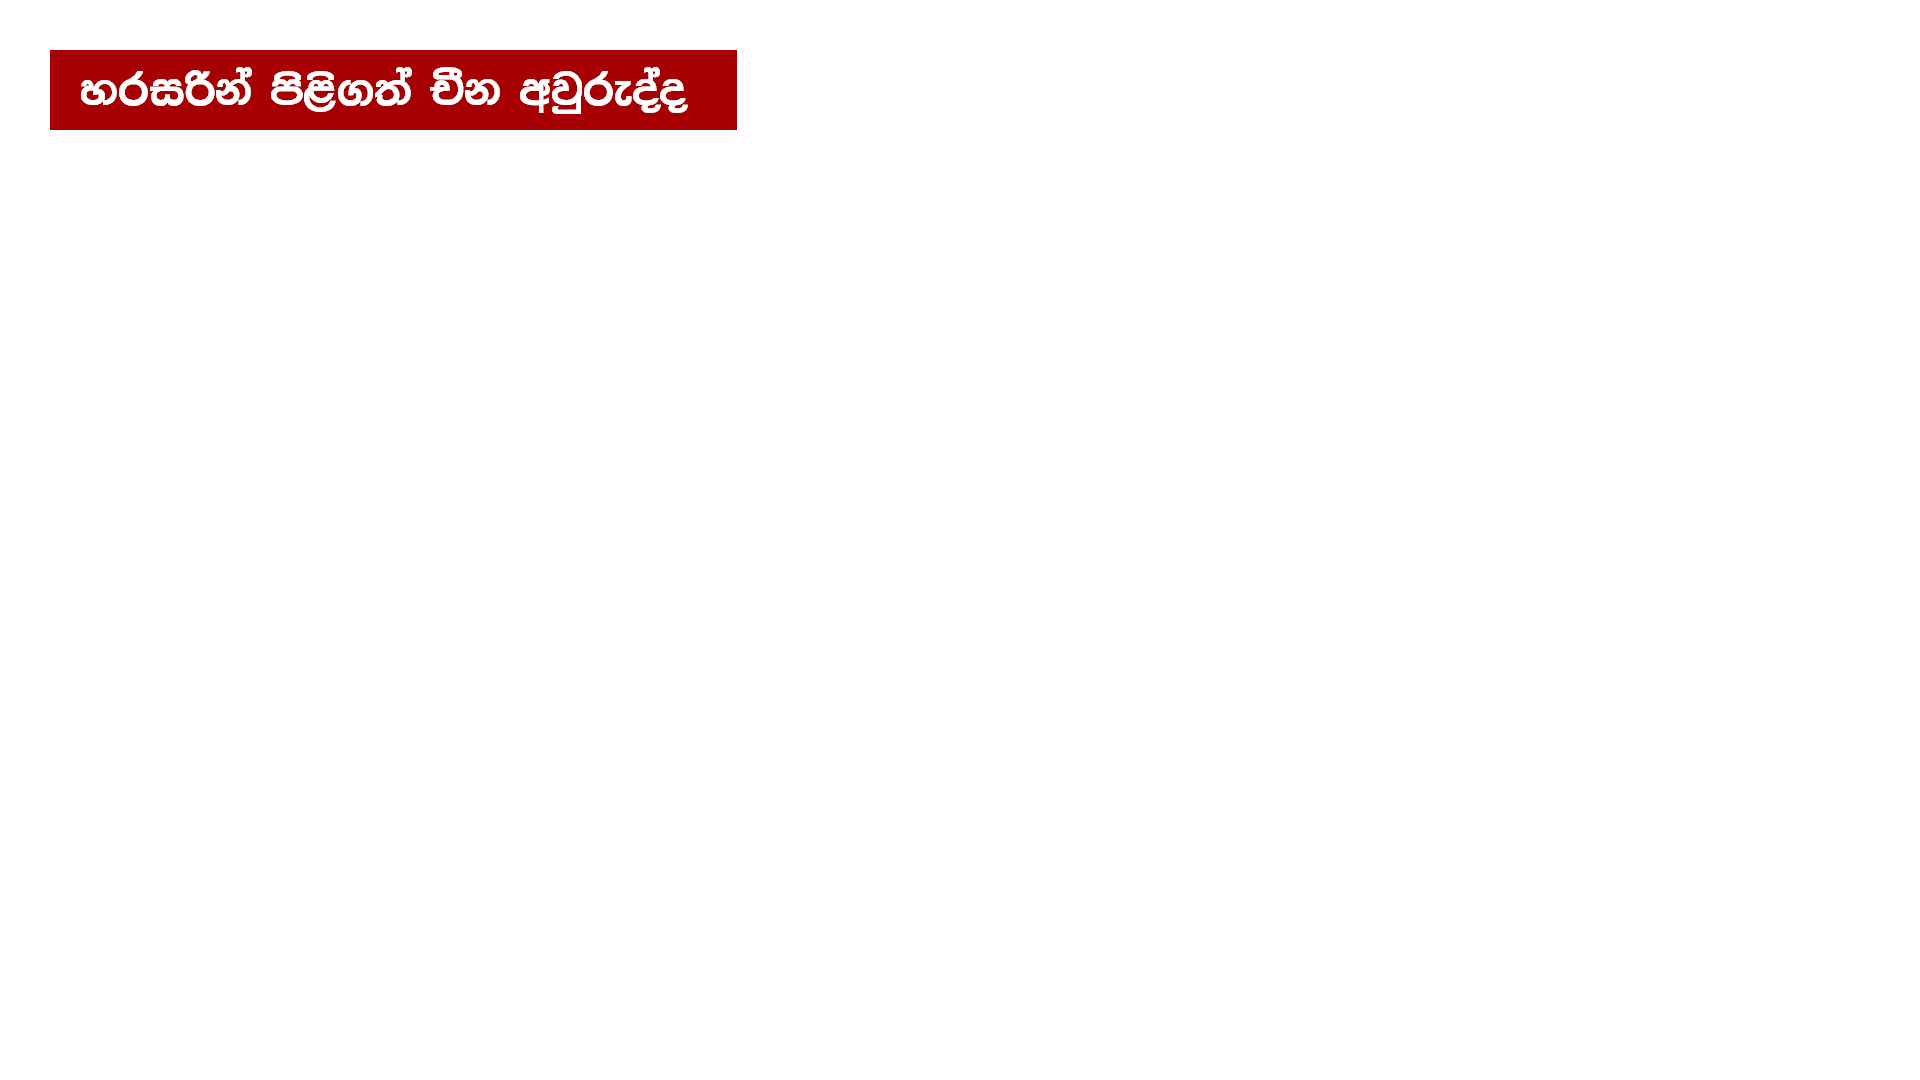
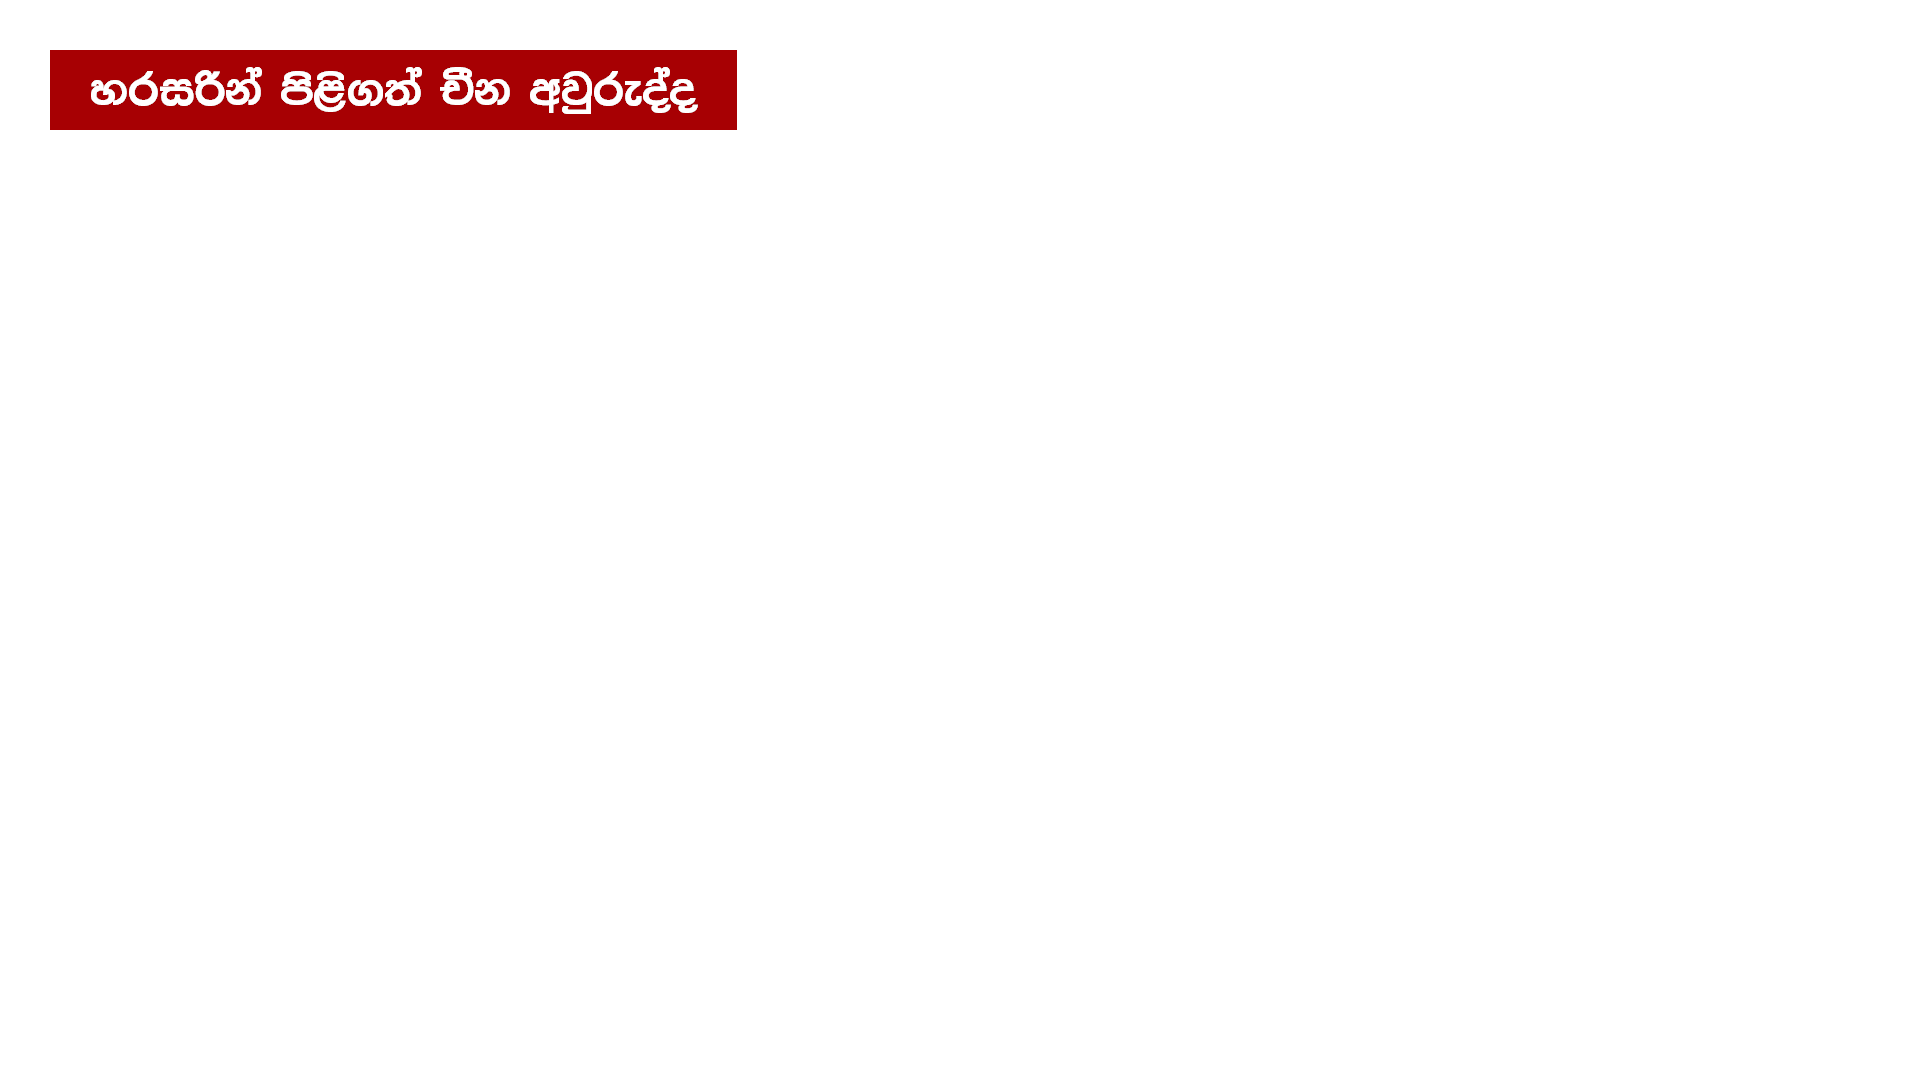
rakaransa/ rendering issue fixed

Changed region(s): [[0.0312, 0.0611, 0.375, 0.1222]]

diff --git a/HiruTaglineCreator/utils/fm_converter.py b/HiruTaglineCreator/utils/fm_converter.py
@@ -266,7 +266,7 @@ def convert_unicode_to_fm(text):
     # ══════════════════════════════════════════════════════════════
     # ්ර + ේ (rakaransaya + ee vowel)
     # ══════════════════════════════════════════════════════════════
-    s = s.replace('ශ්රේ', 'fYa')
+    s = s.replace('ශ්රේ', 'fYa%')
     s = s.replace('බ්රේ', 'f\u00ED%')  # í
     s = s.replace('ඩ්රේ', 'f\u00E2%')  # â
     s = s.replace('ෆ්රේ', 'f*a%')
@@ -295,10 +295,49 @@ def convert_unicode_to_fm(text):
     s = s.replace('ධ්රෙ', 'fO%')
 
     # ══════════════════════════════════════════════════════════════
+    # ්ර + ි (rakaransaya + i vowel)
+    # ══════════════════════════════════════════════════════════════
+    s = s.replace('ඳ්රි', '\u00A2%')
+    s = s.replace('ඨ්රි', '\u00C0%')
+    s = s.replace('ඛ්රි', '\u00C5%')
+    s = s.replace('ච්රි', '\u00D1%')
+    s = s.replace('ඵ්රි', '\u00DD%')
+    s = s.replace('ට්රි', '\u00E1%')
+    s = s.replace('ඩ්රි', '\u00E4%')
+    s = s.replace('ඬ්රි', '\u00E7%')
+    s = s.replace('ධ්රි', '\u00EA%')
+    s = s.replace('ථ්රි', '\u00D3%')
+    s = s.replace('බ්රි', '\u00EC%')
+    s = s.replace('ම්රි', '\u00F1%')
+    s = s.replace('ඹ්රි', '\u00F4%')
+    s = s.replace('ව්රි', '\u00FA%')
+    s = s.replace('ඡ්රි', '\u00FD%')
+    s = s.replace('ජ්රි', '\u00F0%')
+    s = s.replace('්රි', 's%')
+
+    # ══════════════════════════════════════════════════════════════
+    # ්ර + ී (rakaransaya + ii vowel)
+    # ══════════════════════════════════════════════════════════════
+    s = s.replace('ඳ්රී', '\u00A3%')
+    s = s.replace('ඨ්රී', '\u00C1%')
+    s = s.replace('ච්රී', '\u00D6%')
+    s = s.replace('ඵ්රී', '\u00DA%')
+    s = s.replace('ට්රී', '\u00E0%')
+    s = s.replace('ඩ්රී', '\u00E3%')
+    s = s.replace('ඬ්රී', '\u00E9%')
+    s = s.replace('ධ්රී', '\u00EB%')
+    s = s.replace('ථ්රී', '\u00D3%')
+    s = s.replace('බ්රී', '\u00EE%')
+    s = s.replace('ම්රී', '\u00F3%')
+    s = s.replace('ඹ්රී', '\u00F6%')
+    s = s.replace('ව්රී', '\u00F9%')
+    s = s.replace('ජ්රී', '\u00D4%')
+    s = s.replace('්රී', 'S%')
+
+    # ══════════════════════════════════════════════════════════════
     # Yansaya bare (්ය) and Rakaransaya bare (්ර)
     # ══════════════════════════════════════════════════════════════
     s = s.replace('්ය', 'H')
-    s = s.replace('බ්රි', '\u00EC%')  # ì%
     s = s.replace('්ර', '%')
 
     # ══════════════════════════════════════════════════════════════

diff --git a/HiruTaglineCreator/core/text_renderer.py b/HiruTaglineCreator/core/text_renderer.py
@@ -144,9 +144,18 @@ class TextRenderer:
         font_name = self.TOPIC_FONT
         font_size = 50.4
 
-        x = bed_config['x']
+        # Red bed left edge fills the gap (x=126, matches original template)
+        bed_x = 126
         y = bed_config['y']
+        
+        # Original template red bar has slight anti-aliasing artifacts; 
+        # ensure our new red bar covers the exact vertical space height=60
         h = bed_config['height']
+
+        # Text left-aligned at x=160 (same as TAG/WHITE beds)
+        # 160 - 126 = 34px left padding inside red bed
+        LEFT_PAD = 34
+        RIGHT_PAD = 34
 
         fm_font = self._get_qfont(font_name, font_size, letter_spacing)
         eng_font = self._get_qfont(ENGLISH_FONT_NAME, font_size, letter_spacing, bold=True)
@@ -159,13 +168,17 @@ class TextRenderer:
 
         text_width = self._measure_segments_width(segments, fm_font, eng_font)
 
-        # Background width
-        bg_width = text_width + 80
-        bg_width = max(bg_width, bed_config.get('width_min', 370))
-        bg_width = min(bg_width, bed_config.get('width_max', 1110))
+        # Max bg width the red bed can grow to
+        max_bg = bed_config.get('width_max', 1780)
+        available_text_width = max_bg - LEFT_PAD - RIGHT_PAD
 
-        available_width = bg_width - 40
-        scale = self._compute_fit_scale(text_width, available_width)
+        # Compress only if text exceeds max available width
+        scale = self._compute_fit_scale(text_width, available_text_width)
+        scaled_text_w = text_width * scale
+
+        # Red background width = left pad + scaled text + right pad
+        bg_width = int(LEFT_PAD + scaled_text_w + RIGHT_PAD)
+        bg_width = min(bg_width, max_bg)
 
         qimg = QImage(1920, 1080, QImage.Format_ARGB32)
         qimg.fill(QColor(0, 0, 0, 0))
@@ -173,12 +186,12 @@ class TextRenderer:
         painter = QPainter(qimg)
         painter.setRenderHints(QPainter.Antialiasing | QPainter.TextAntialiasing)
 
-        # Red background
+        # Red background — left edge at bed_x=126, width scales with text
         bg_color = QColor(bed_config.get('bg_color', '#a70003'))
-        painter.fillRect(x, y, bg_width, h, bg_color)
+        painter.fillRect(bed_x, y, bg_width, h, bg_color)
 
-        # Draw text — shifted slightly right (+30) and vertically centered
-        text_x = x + 30
+        # Text left-aligned at bed_x + LEFT_PAD (= 160, same as TAG/WHITE beds)
+        text_x = bed_x + LEFT_PAD
         text_y = y + (h // 2)
 
         self._draw_segments(painter, segments, fm_font, eng_font,
@@ -186,7 +199,7 @@ class TextRenderer:
                             bed_config.get('text_color', '#FFFFFF'))
         painter.end()
 
-        print(f"  Topic: size={font_size}pt, bg={bg_width}px, scale={scale:.2f}, font={font_name}")
+        print(f"  Topic: size={font_size}pt, bg={bg_width}px, scale={scale:.2f}, text_w={text_width:.0f}, font={font_name}")
         return self._qimage_to_pil(qimg)
 
     def render_tag_bed_text(self, text, bed_config, h_scale=100, letter_spacing=0):

diff --git a/HiruTaglineCreator/core/template_manager.py b/HiruTaglineCreator/core/template_manager.py
@@ -9,17 +9,17 @@ from PIL import Image
 #   WHITE     (White Bed):    x=141, y=898, width=1457, height=48
 #
 # SUB_TAG layout (1920×1080):
-#   RED bar   (topic line):   x=126, y=754, extends rightward, height=60
+#   RED bar   (topic line):   x=126, y=750, extends rightward, height=64
 #   ORANGE 1  (TAG Bed):      x=140, y=814, width=1459, height=44
 #   ORANGE 2  (White Bed):    x=140, y=907, width=1459, height=48
 
 MAIN_TAG_BEDS = {
     'TOPIC_BED': {
         'x': 126,
-        'y': 754,
+        'y': 750,
         'width_min': 485,       # minimum width (matches existing red bar)
         'width_max': 1780,      # max allowed width
-        'height': 60,
+        'height': 64,
         'bg_color':   '#a70003',
         'text_color': '#FFFFFF',
         'font': 'FM GANGANEE',
@@ -31,7 +31,7 @@ MAIN_TAG_BEDS = {
         'y': 814,
         'width': 1459,
         'height': 44,
-        'text_color': '#000000',
+        'text_color': '#231F20',
         'font': 'FM SANDHYANEE',
         'alignment': 'center'
     },
@@ -40,7 +40,7 @@ MAIN_TAG_BEDS = {
         'y': 898,
         'width': 1457,
         'height': 48,
-        'text_color': '#000000',
+        'text_color': '#231F20',
         'font': 'FM SANDHYANEE',
         'alignment': 'center'
     }
@@ -49,10 +49,10 @@ MAIN_TAG_BEDS = {
 SUB_TAG_BEDS = {
     'TOPIC_BED': {
         'x': 126,
-        'y': 754,
+        'y': 750,
         'width_min': 485,
         'width_max': 1780,
-        'height': 60,
+        'height': 64,
         'bg_color':   '#a70003',
         'text_color': '#FFFFFF',
         'font': 'FM GANGANEE',
@@ -64,7 +64,7 @@ SUB_TAG_BEDS = {
         'y': 814,
         'width': 1459,
         'height': 44,
-        'text_color': '#000000',
+        'text_color': '#231F20',
         'font': 'FM SANDHYANEE',
         'alignment': 'center'
     }

diff --git a/HiruTaglineCreator/gui/generation_panel.py b/HiruTaglineCreator/gui/generation_panel.py
@@ -319,7 +319,14 @@ class GenerationPanel(ttk.LabelFrame):
 
             # Composite text on template
             if base_img:
-                img = Image.alpha_composite(base_img.convert('RGBA'), text_layer)
+                comp = base_img.convert('RGBA')
+                # Clear pre-baked topic bed red bar so dynamic sizing works
+                if kind == 'topic' and bed:
+                    bx, by = bed.get('x', 126), bed.get('y', 750)
+                    bh = bed.get('height', 64)
+                    cw = 1800  # Wide enough to erase all anti-aliased right edges
+                    comp.paste(Image.new('RGBA', (cw, bh), (0,0,0,0)), (bx, by))
+                img = Image.alpha_composite(comp, text_layer)
             else:
                 img = text_layer
 
@@ -385,7 +392,13 @@ class GenerationPanel(ttk.LabelFrame):
                     base_img = self.text_renderer.template_mgr.get_template_image(template)
                     text_layer = self.text_renderer.render_topic_bed(topic, bed, letter_spacing)
                     if base_img:
-                        img = Image.alpha_composite(base_img.convert('RGBA'), text_layer)
+                        comp = base_img.convert('RGBA')
+                        # Clear pre-baked topic bed red bar so dynamic sizing works
+                        bx, by = bed.get('x', 126), bed.get('y', 750)
+                        bh = bed.get('height', 64)
+                        cw = 1800  # Wide enough to erase all anti-aliased right edges
+                        comp.paste(Image.new('RGBA', (cw, bh), (0,0,0,0)), (bx, by))
+                        img = Image.alpha_composite(comp, text_layer)
                     else:
                         img = text_layer
                     filename = f"TopicBed_{date}.png"

diff --git a/HiruTaglineCreator/gui/main_window.py b/HiruTaglineCreator/gui/main_window.py
@@ -575,6 +575,15 @@ class MainWindow(tk.Tk):
                     try:
                         bed_config = get_bed('TOPIC_BED')
                         if bed_config:
+                            # Clear the pre-baked red bar from the template so our
+                            # dynamically-sized red bar is the only one visible.
+                            bx = bed_config.get('x', 126)
+                            by = bed_config.get('y', 750)
+                            bh = bed_config.get('height', 64)
+                            cw = 1800  # Wide enough to erase all anti-aliased right edges
+                            clear_patch = Image.new('RGBA', (cw, bh), (0, 0, 0, 0))
+                            preview_img.paste(clear_patch, (bx, by))
+                            
                             topic_img = renderer.render_topic_bed(topic_text, bed_config, letter_spacing)
                             preview_img = Image.alpha_composite(preview_img, topic_img.convert('RGBA'))
                     except Exception as ex:

diff --git a/HiruTaglineCreator/test_rakar.py b/HiruTaglineCreator/test_rakar.py
@@ -1,0 +1,13 @@
+from core.text_renderer import TextRenderer
+from utils.fm_converter import convert_unicode_to_fm
+
+tr = TextRenderer({})
+
+test_words = ['මෙට්රික්', 'ශ්රේෂ්ඨාධිකරණය', 'ක්රි']
+print('FM Conversion:')
+for w in test_words:
+    print(f'{w} -> {convert_unicode_to_fm(w)}')
+
+bed = {'width_min': 485, 'width_max': 1780, 'bg_color': '#a70003', 'text_color': '#FFFFFF', 'x': 126, 'y': 754, 'height': 60}
+img = tr.render_topic_bed('මෙට්රික් ශ්රේෂ්ඨාධිකරණය', bed)
+tr.save_png(img, 'test_topic_rakar.png')

diff --git a/HiruTaglineCreator/build_exe.py b/HiruTaglineCreator/build_exe.py
@@ -10,7 +10,7 @@ PyInstaller.__main__.run([
     '--onefile',
     '--windowed',
     '--icon=assets/app_icon.ico',
-    '--name=HiruTaglineCreator_v1.3',
+    '--name=HiruTaglineCreator_v1.4',
     '--add-data=templates;templates',
     '--add-data=assets;assets',
     '--add-data=config;config',
